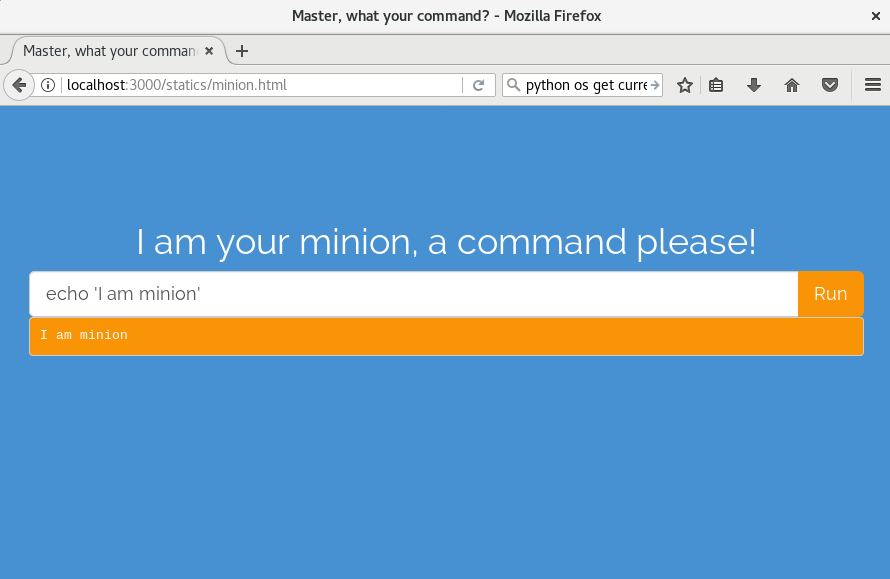
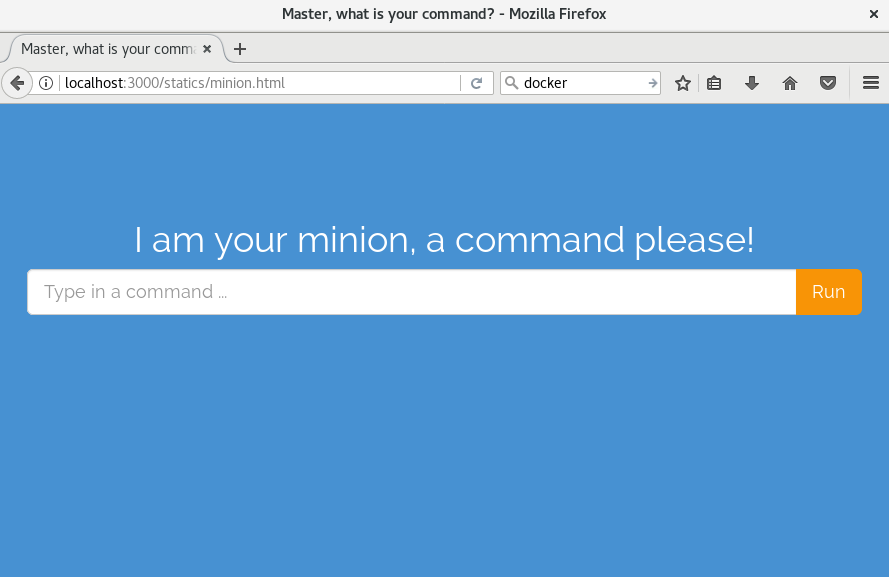
fix a typo

Changed region(s): [[0.0, 0.0, 1.0, 0.1872], [0.0304, 0.4679, 0.9719, 0.6239], [0.1519, 0.4055, 0.8504, 0.4679]]

diff --git a/public/minion.html b/public/minion.html
@@ -5,7 +5,7 @@
   <meta http-equiv="X-UA-Compatible" content="IE=edge">
   <meta name="viewport" content="width=device-width, initial-scale=1">
 
-  <title>Master, what your command?</title>
+  <title>Master, what is your command?</title>
   <link href='https://fonts.googleapis.com/css?family=Raleway' rel='stylesheet' type='text/css'>
   <link rel="stylesheet" href="https://maxcdn.bootstrapcdn.com/bootstrap/3.3.6/css/bootstrap.min.css">
   <link href="styles.css" rel="stylesheet">
